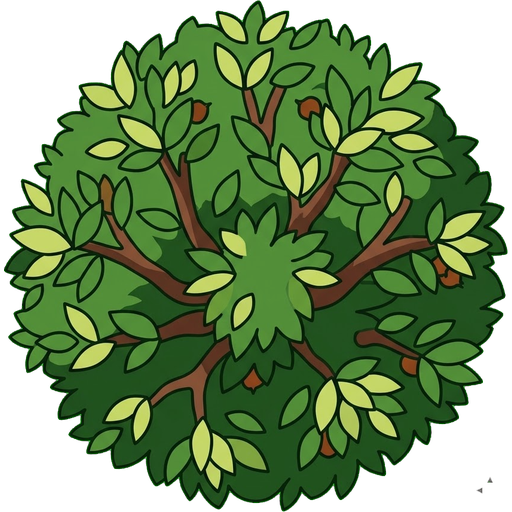
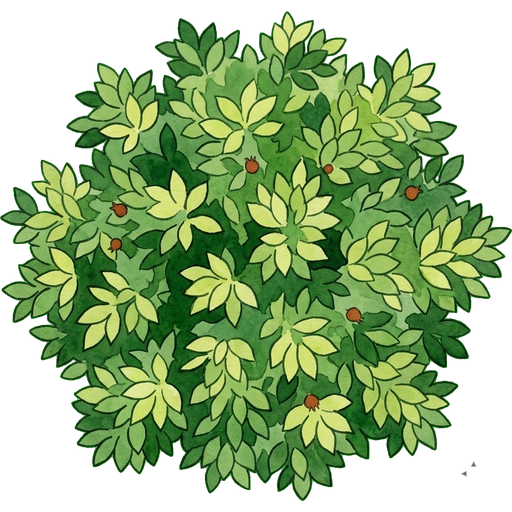
Add sticker: Medlar (tree-fruit_medlar_XL_CA-US-FR-GB-AU)

diff --git a/app/src/hooks/usePlantCatalog.js b/app/src/hooks/usePlantCatalog.js
@@ -253,6 +253,9 @@ export const PLANT_CATALOG = [
 
   // ── New additions
 
+  // ── New additions
+  { key:'tree-fruit_medlar_XL_CA-US-FR-GB-AU', label:'Medlar', family:'Fruit Tree', src:'/stickers/tree-fruit_medlar_XL_CA-US-FR-GB-AU.png', size:'XL' },
+
   // ── Reference entry (kept for catalog structure reference only) ───────────────
   // { key:'tree-svg-ref', label:'Apple Tree (SVG ref)', family:'Fruit Tree', src:'/stickers/tree.svg', size:'L' },
   { key:'plant-fern_fern_L_CA-US-FR-GB-AU', label:'Fern', family:'Fern / Groundcover', src:'/stickers/plant-fern_fern_L_CA-US-FR-GB-AU.png', size:'L' },
